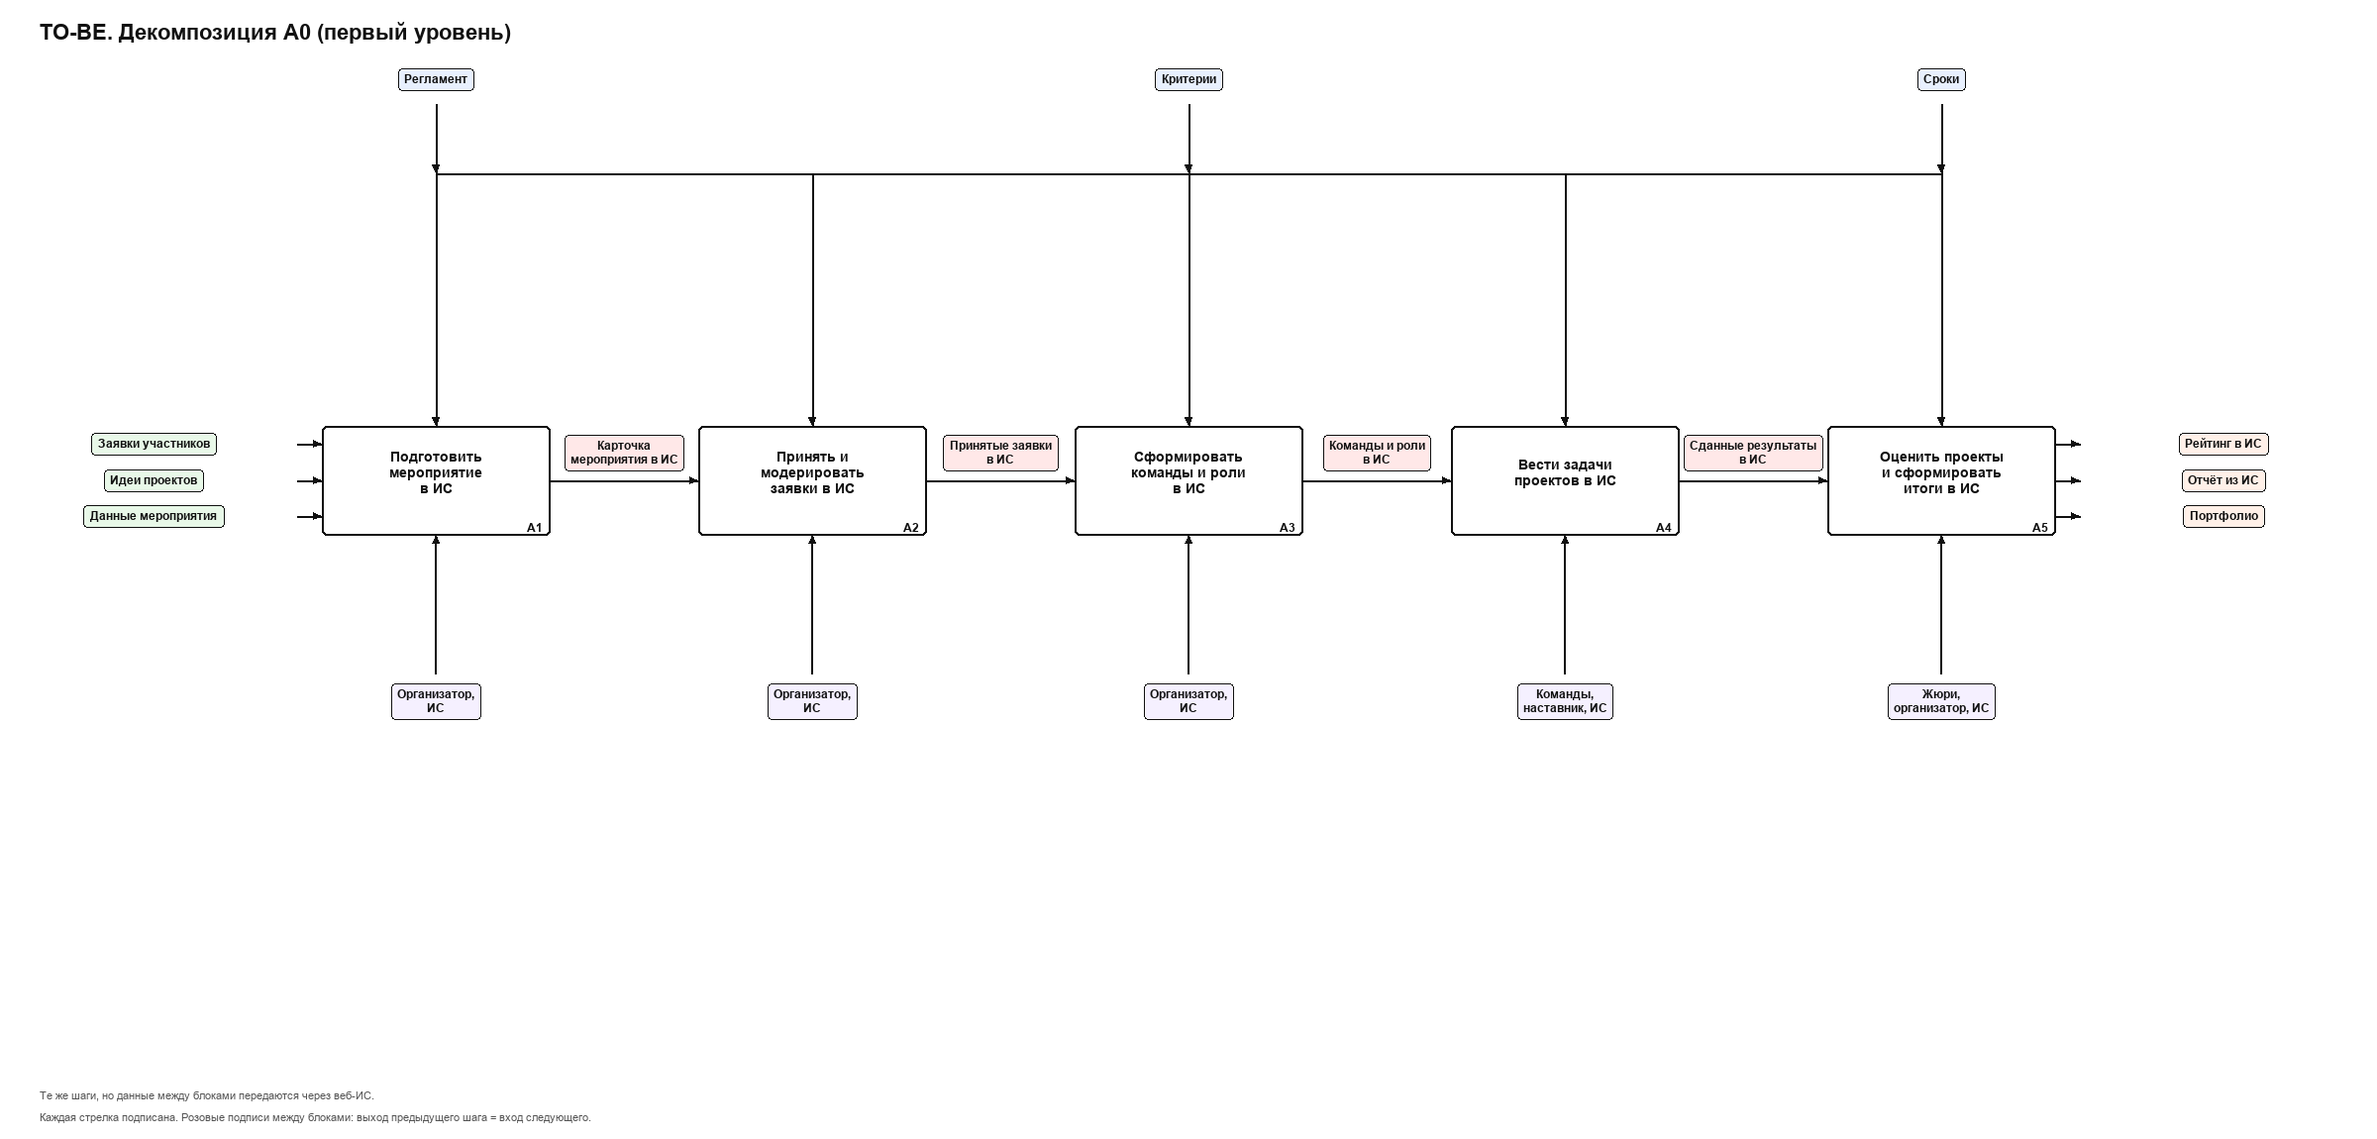
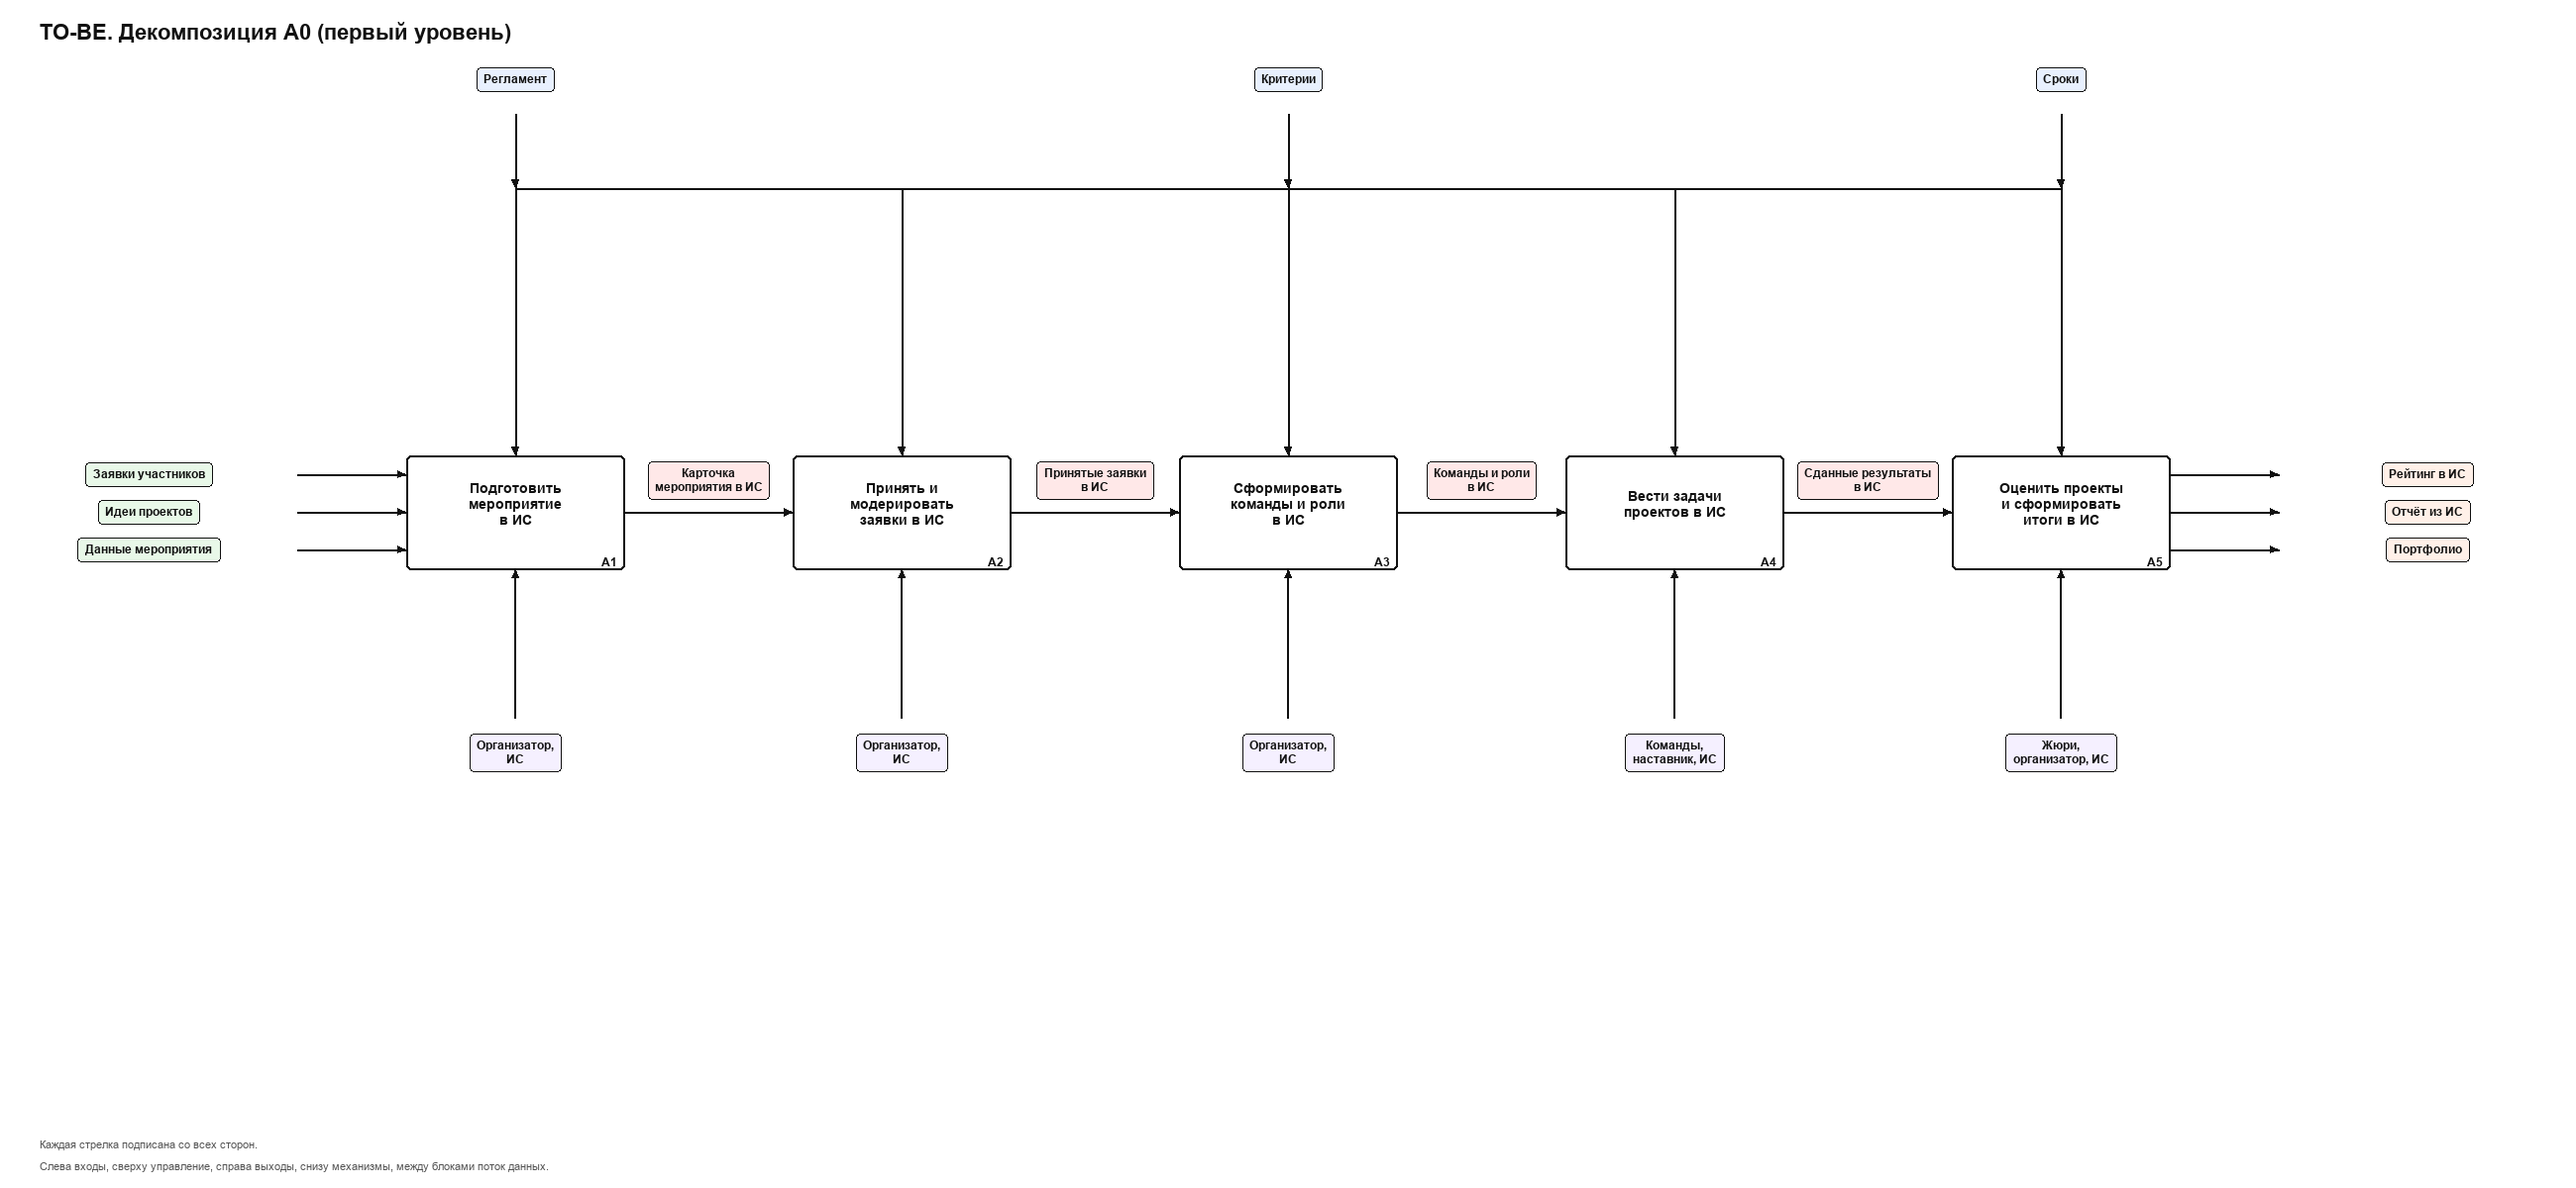
Fix IDEF0 labels on all sides without cropping

diff --git a/02_idef0_biznes_processy/README.md b/02_idef0_biznes_processy/README.md
@@ -27,9 +27,10 @@
 - слева вход (зелёные подписи);
 - сверху управление (синие подписи);
 - справа выход (оранжевые подписи);
-- снизу механизм (фиолетовые подписи).
+- снизу механизм (фиолетовые подписи);
+- между блоками поток данных (розовые подписи).
 
-На всех диаграммах подписана каждая стрелка. Розовые подписи между блоками показывают, какая информация выходит из предыдущего шага и входит в следующий.
+На всех диаграммах подписаны стрелки со всех сторон. Розовые подписи показывают преобразование: выход предыдущего шага становится входом следующего.
 
 ---
 
